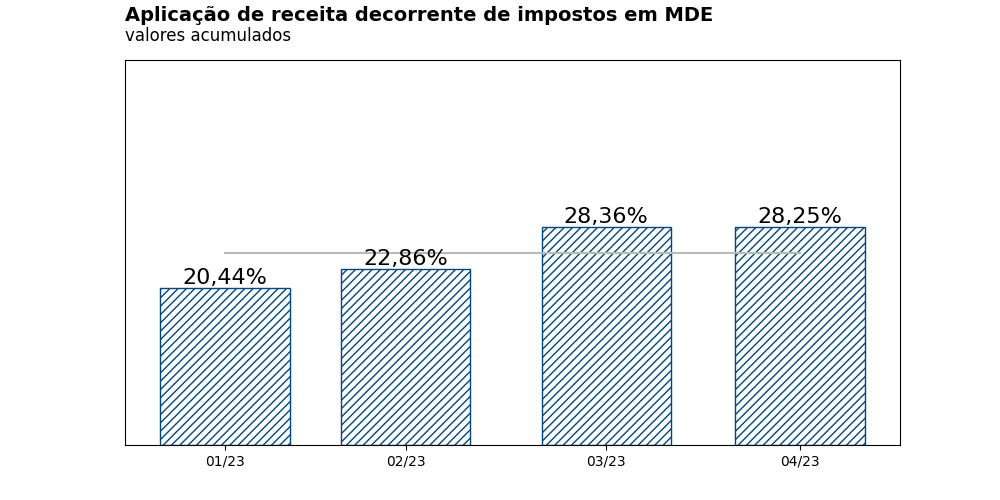
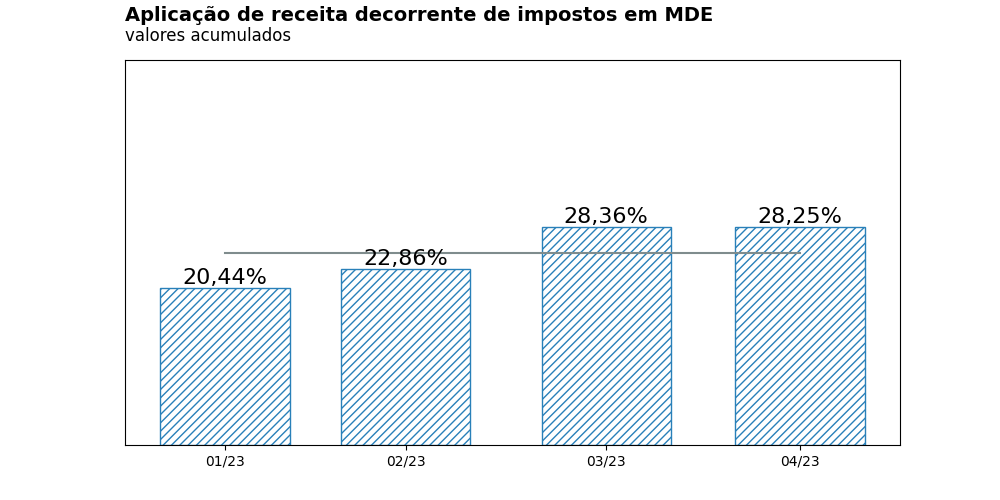
Adicionado parte referente ao Fundeb

Changed region(s): [[0.217, 0.45, 0.868, 0.9], [0.155, 0.57, 0.31, 0.9], [0.341, 0.54, 0.465, 0.9]]

diff --git a/reports/mun_2023-4.html b/reports/mun_2023-4.html
@@ -27,11 +27,18 @@
                         <i class="book icon"></i>
                         <div class="content">Educação</div>
                     </h2>
-
-
                 </div>
-                <div class="ui segment">
-                    <h3 class="ui header">Aplicação da receita decorrente de impostos em Manutenção e Desenvolvimento do Ensino (MDE)</h3>
+
+                <div class="ui grey segment">
+                    <div class="ui massive breadcrumb">
+                        <div class="section">Educação</div>
+                        <i class="right chevron icon divider"></i>
+                        <div class="active section">Manutenção e Desenvolvimento do Ensino (MDE)</div>
+                    </div>
+
+                    <div class="ui message">
+                        <p>Ao art. 212 da Constituição Federal determina que os municípios apliquem anualmente no mínimo 25% da receita decorrente de impostos na Manutenção e Desenvolvimento do Ensino.</p>
+                    </div>
 
                     <img class="ui fluid image" src="../assets/fig/evolucao_indice_mde.png">
 
@@ -84,6 +91,71 @@
                       </tbody>
                     </table>
                 </div>
+                <div class="ui grey segment">
+                    <div class="ui massive breadcrumb">
+                        <div class="section">Educação</div>
+                        <i class="right chevron icon divider"></i>
+                        <div class="section">Fundeb</div>
+                        <i class="right chevron icon divider"></i>
+                        <div class="active section">Remuneração</div>
+                    </div>
+
+                    <div class="ui message">
+                        <p>A legislação do Fundeb determina que os municípios apliquem anualmente pelo menos 70% da receita recebida do Fundeb na remuneração dos profissionais da educação.</p>
+                    </div>
+
+                    <img class="ui fluid image" src="../assets/fig/evolucao_indice_remun_fundeb.png">
+
+                    <table class="ui compact table">
+                      <thead>
+                        <tr>
+                            <th class="left aligned" colspan="5"><h3 class="ui header">Aplicação do Fundeb em remuneração</h3></th>
+                        </tr>
+                        <tr>
+                            <th class="left aligned">Data-base</th>
+                            <th class="right aligned">Receita</th>
+                            <th class="right aligned">Despesa</th>
+                            <th class="right aligned">% aplicado</th>
+                            <th class="right aligned">$ aplicado a maior/menor</th>
+                      </tr></thead>
+                      <tbody>
+                        
+                            <tr>
+                                <td class="left aligned">31/01/2023</td>
+                                <td class="right aligned">547.625,61</td>
+                                <td class="right aligned">370.273,79</td>
+                                <td class="negative  right aligned">67,61%</td>
+                                <td class="negative right aligned">(-13.064,14)</td>
+                            </tr>
+                        
+                            <tr>
+                                <td class="left aligned">28/02/2023</td>
+                                <td class="right aligned">952.516,88</td>
+                                <td class="right aligned">679.786,37</td>
+                                <td class="positive right aligned">71,37%</td>
+                                <td class="right aligned">13.024,55</td>
+                            </tr>
+                        
+                            <tr>
+                                <td class="left aligned">31/03/2023</td>
+                                <td class="right aligned">1.322.957,92</td>
+                                <td class="right aligned">1.148.503,07</td>
+                                <td class="positive right aligned">86,81%</td>
+                                <td class="right aligned">222.432,53</td>
+                            </tr>
+                        
+                            <tr>
+                                <td class="left aligned">30/04/2023</td>
+                                <td class="right aligned">1.767.081,65</td>
+                                <td class="right aligned">1.686.231,47</td>
+                                <td class="positive right aligned">95,42%</td>
+                                <td class="right aligned">449.274,32</td>
+                            </tr>
+                        
+                      </tbody>
+                    </table>
+                </div>
+
             </div>
         </div>
 

diff --git a/assets/tpl/fundeb_remun.html b/assets/tpl/fundeb_remun.html
@@ -1,0 +1,40 @@
+<div class="ui grey segment">
+                    <div class="ui massive breadcrumb">
+                        <div class="section">Educação</div>
+                        <i class="right chevron icon divider"></i>
+                        <div class="section">Fundeb</div>
+                        <i class="right chevron icon divider"></i>
+                        <div class="active section">Remuneração</div>
+                    </div>
+
+                    <div class="ui message">
+                        <p>A legislação do Fundeb determina que os municípios apliquem anualmente pelo menos 70% da receita recebida do Fundeb na remuneração dos profissionais da educação.</p>
+                    </div>
+
+                    <img class="ui fluid image" src="../{{figlist.evolucao_indice_remun_fundeb}}">
+
+                    <table class="ui compact table">
+                      <thead>
+                        <tr>
+                            <th class="left aligned" colspan="5"><h3 class="ui header">Aplicação do Fundeb em remuneração</h3></th>
+                        </tr>
+                        <tr>
+                            <th class="left aligned">Data-base</th>
+                            <th class="right aligned">Receita</th>
+                            <th class="right aligned">Despesa</th>
+                            <th class="right aligned">% aplicado</th>
+                            <th class="right aligned">$ aplicado a maior/menor</th>
+                      </tr></thead>
+                      <tbody>
+                        {% for i, r in dflist.fundeb_remun.iterrows() %}
+                            <tr>
+                                <td class="left aligned">{{ r.data_base.strftime("%d/%m/%Y") }}</td>
+                                <td class="right aligned">{{ r.receita_bc_remun|format_money }}</td>
+                                <td class="right aligned">{{ r.despesa_bc_remun|format_money }}</td>
+                                <td class="{{ 'negative ' if r.indice_remun < 0.7 else 'positive' }} right aligned">{{ r.indice_remun|format_percent }}</td>
+                                <td class="{{ 'negative ' if r.diferenca_remun < 0.0 }}right aligned">{{ r.diferenca_remun|format_money }}</td>
+                            </tr>
+                        {% endfor %}
+                      </tbody>
+                    </table>
+                </div>

diff --git a/assets/tpl/mun.html b/assets/tpl/mun.html
@@ -19,49 +19,7 @@
 
         <div class="ui horizontal divider"></div>
 
-        <div class="ui container">
-            <div class="ui segments">
-                <div class="ui blue segment">
-                    <h4 class="ui sub header">Área Temática</h4>
-                    <h2 class="ui header">
-                        <i class="book icon"></i>
-                        <div class="content">Educação</div>
-                    </h2>
-
-
-                </div>
-                <div class="ui segment">
-                    <h3 class="ui header">Aplicação da receita decorrente de impostos em Manutenção e Desenvolvimento do Ensino (MDE)</h3>
-
-                    <img class="ui fluid image" src="../{{figlist.evolucao_indice_mde}}">
-
-                    <table class="ui compact table">
-                      <thead>
-                        <tr>
-                            <th class="left aligned" colspan="5"><h3 class="ui header">Aplicação da receita de impostos em MDE</h3></th>
-                        </tr>
-                        <tr>
-                            <th class="left aligned">Data-base</th>
-                            <th class="right aligned">Receita</th>
-                            <th class="right aligned">Despesa</th>
-                            <th class="right aligned">% aplicado</th>
-                            <th class="right aligned">$ aplicado a maior/menor</th>
-                      </tr></thead>
-                      <tbody>
-                        {% for i, r in dflist.mde.iterrows() %}
-                            <tr>
-                                <td class="left aligned">{{ r.data_base.strftime("%d/%m/%Y") }}</td>
-                                <td class="right aligned">{{ r.receita_bc|format_money }}</td>
-                                <td class="right aligned">{{ r.despesa_bc|format_money }}</td>
-                                <td class="{{ 'negative ' if r.indice < 0.25 else 'positive' }} right aligned">{{ r.indice|format_percent }}</td>
-                                <td class="{{ 'negative ' if r.diferenca < 0.0 }}right aligned">{{ r.diferenca|format_money }}</td>
-                            </tr>
-                        {% endfor %}
-                      </tbody>
-                    </table>
-                </div>
-            </div>
-        </div>
+        {% include 'educacao.html' %}
 
     </div>
 

diff --git a/assets/tpl/mde.html b/assets/tpl/mde.html
@@ -1,0 +1,38 @@
+<div class="ui grey segment">
+                    <div class="ui massive breadcrumb">
+                        <div class="section">Educação</div>
+                        <i class="right chevron icon divider"></i>
+                        <div class="active section">Manutenção e Desenvolvimento do Ensino (MDE)</div>
+                    </div>
+
+                    <div class="ui message">
+                        <p>Ao art. 212 da Constituição Federal determina que os municípios apliquem anualmente no mínimo 25% da receita decorrente de impostos na Manutenção e Desenvolvimento do Ensino.</p>
+                    </div>
+
+                    <img class="ui fluid image" src="../{{figlist.evolucao_indice_mde}}">
+
+                    <table class="ui compact table">
+                      <thead>
+                        <tr>
+                            <th class="left aligned" colspan="5"><h3 class="ui header">Aplicação da receita de impostos em MDE</h3></th>
+                        </tr>
+                        <tr>
+                            <th class="left aligned">Data-base</th>
+                            <th class="right aligned">Receita</th>
+                            <th class="right aligned">Despesa</th>
+                            <th class="right aligned">% aplicado</th>
+                            <th class="right aligned">$ aplicado a maior/menor</th>
+                      </tr></thead>
+                      <tbody>
+                        {% for i, r in dflist.mde.iterrows() %}
+                            <tr>
+                                <td class="left aligned">{{ r.data_base.strftime("%d/%m/%Y") }}</td>
+                                <td class="right aligned">{{ r.receita_bc|format_money }}</td>
+                                <td class="right aligned">{{ r.despesa_bc|format_money }}</td>
+                                <td class="{{ 'negative ' if r.indice < 0.25 else 'positive' }} right aligned">{{ r.indice|format_percent }}</td>
+                                <td class="{{ 'negative ' if r.diferenca < 0.0 }}right aligned">{{ r.diferenca|format_money }}</td>
+                            </tr>
+                        {% endfor %}
+                      </tbody>
+                    </table>
+                </div>

diff --git a/assets/tpl/educacao.html b/assets/tpl/educacao.html
@@ -1,0 +1,15 @@
+<div class="ui container">
+            <div class="ui segments">
+                <div class="ui blue segment">
+                    <h4 class="ui sub header">Área Temática</h4>
+                    <h2 class="ui header">
+                        <i class="book icon"></i>
+                        <div class="content">Educação</div>
+                    </h2>
+                </div>
+
+                {% include 'mde.html' %}
+                {% include 'fundeb_remun.html' %}
+
+            </div>
+        </div>

diff --git a/iddrs/kpi/topics/educacao.py b/iddrs/kpi/topics/educacao.py
@@ -14,7 +14,7 @@ class MDE(iddrs.kpi.KPIBase):
 
     def run(self):
         self.plot_evolucao_indice_mde()
-        # self.df_mde()
+        self.df_mde()
 
     def plot_evolucao_indice_mde(self):
         df = self._df[['data_base', 'indice', 'minimo']].copy()
@@ -39,3 +39,39 @@ class MDE(iddrs.kpi.KPIBase):
         df = self._df[['data_base', 'indice', 'receita_bc', 'despesa_bc']].copy()
         df['diferenca'] = round(df['despesa_bc'] - (df['receita_bc'] * 0.25), 2)
         self.save_df(df, 'mde')
+
+
+class Fundeb(iddrs.kpi.KPIBase):
+
+    def __init__(self, ano, mes):
+        self._data_base_final = utils.get_database(ano, mes)
+        self._data_base_inicial = utils.get_primeiro_dia_ano(ano)
+        self._df = db.exec_sql(f'SELECT * FROM indicadores."FUNDEB" WHERE data_base BETWEEN \'{self._data_base_inicial}\' AND \'{self._data_base_final}\' ORDER BY data_base ASC')
+
+    def run(self):
+        self.plot_evolucao_indice_remuneracao_fundeb()
+        self.df_remun_fundeb()
+
+    def plot_evolucao_indice_remuneracao_fundeb(self):
+        df = self._df[['data_base', 'indice_remun', 'minimo_remun']].copy()
+        df['data_base'] = pd.to_datetime(df['data_base'], format='%Y-%m-%d')
+        fig, ax = plt.subplots(figsize=config.figsize)
+        ax.text(0, 1.1, 'Aplicação da receita do Fundeb em remuneração', fontsize=14, fontweight='bold',
+                transform=ax.transAxes)
+        ax.text(0, 1.05, 'valores acumulados', fontsize=12, transform=ax.transAxes)
+        ax.xaxis.set_major_formatter(mdates.DateFormatter('%m/%y'))
+        ax.xaxis.set_ticks(df['data_base'])
+        ax.set_ylim(0, 1)
+        ax.yaxis.set_ticks([])
+        ax.plot(df['data_base'], df['minimo_remun'], color=config.colors['secondary'])
+        ax.bar(df['data_base'], df['indice_remun'], edgecolor=config.colors['primary'], hatch='////', color='white', width=20)
+        for x, y in zip(df['data_base'], df['indice_remun']):
+            ax.text(x, y, '{:.2%}'.format(y).replace('.', ','), ha='center', va='bottom', fontsize=16)
+        ax.legend([]).remove()
+        # plt.show()
+        self.save_fig(fig, 'evolucao_indice_remun_fundeb')
+
+    def df_remun_fundeb(self):
+        df = self._df[['data_base', 'indice_remun', 'receita_bc_remun', 'despesa_bc_remun']].copy()
+        df['diferenca_remun'] = round(df['despesa_bc_remun'] - (df['receita_bc_remun'] * 0.7), 2)
+        self.save_df(df, 'fundeb_remun')

diff --git a/iddrs/config.py b/iddrs/config.py
@@ -7,10 +7,10 @@ path_asset_dataframes = r'assets/df/'
 path_asset_templates = r'assets/tpl/'
 
 colors = {
-    'primary': '#00477e',
-    'secondary': '#b2beb5',
-    'positive': '#004d33',
-    'negative': '#a6001a'
+    'primary': '#2980b9',
+    'secondary': '#7f8c8d',
+    'positive': '#16a085',
+    'negative': '#c0392b'
 }
 
 figsize=(10, 5)

diff --git a/mun-report.py b/mun-report.py
@@ -4,7 +4,7 @@ from iddrs.kpi import generate_report
 ano = 2023
 mes = 4
 
-mde = educacao.MDE(ano, mes)
-mde.run()
+educacao.MDE(ano, mes).run()
+educacao.Fundeb(ano, mes).run()
 
 generate_report(f'mun_{ano}-{mes}')
